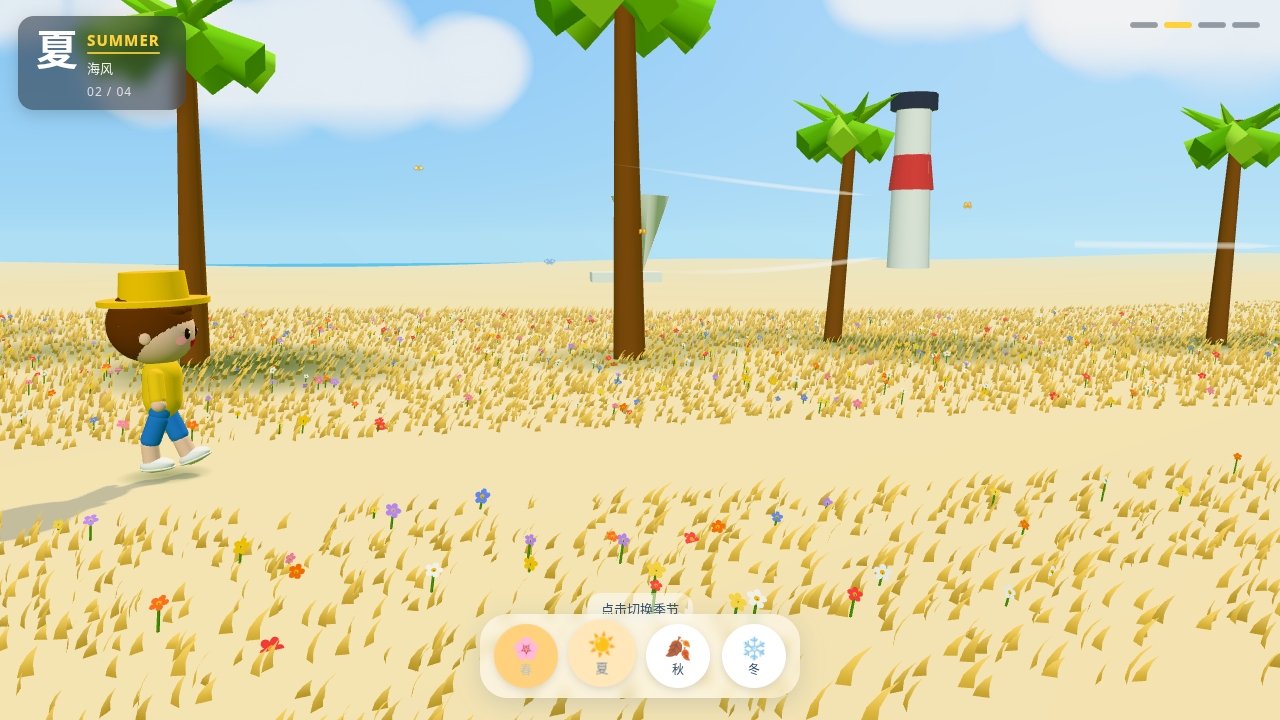
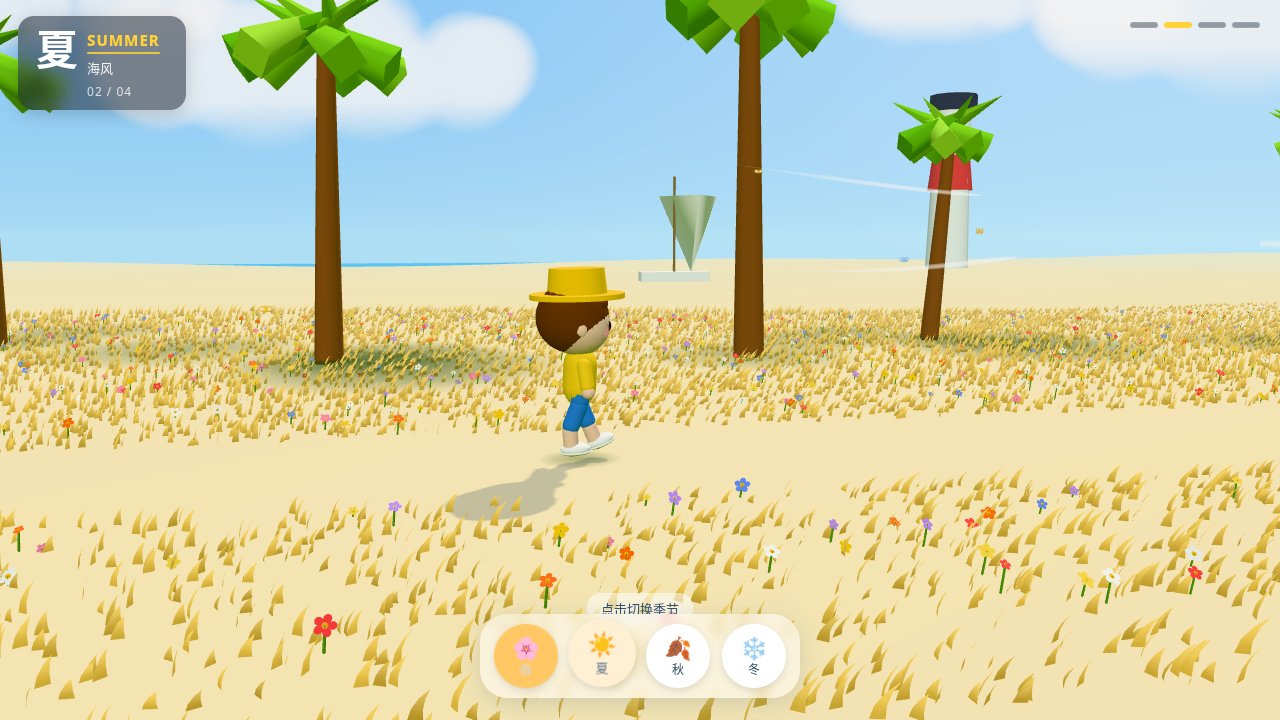
人物比镜头快，走到画面中间
相机跟随变慢并对准人物中心；切换季节时人物从画面左侧走进来。

diff --git a/main.js b/main.js
@@ -561,7 +561,7 @@ const kids = [];
   scene.add(k);
   Object.assign(k.userData, {
     season: name, blob: blob(1, pathCZ(1), 0.38, 1.1), heading: Math.PI / 2,
-    walkPh: 0, w: { walk: 1, sit: 0, look: 0 }, act: 'walk', speed: 0.62,
+    walkPh: 0, w: { walk: 1, sit: 0, look: 0 }, act: 'walk', speed: 0.95,
   });
   if (d.umbrella) {
     const g = new THREE.Group();
@@ -778,8 +778,15 @@ function setWeather(name, instant = false) {
     k.userData.blob.visible = on;
     if (on) {
       hero = k;
-      if (instant || hero.position.x > WALK_X1 - 5 || hero.position.x < WALK_X0) {
-        hero.position.x = WALK_X0 + 2; hero.position.z = pathCZ(hero.position.x);
+      // Start on the left of frame; walk into center while camera lags
+      const startX = (instant ? WALK_X0 + 2 : camera.position.x - 4.2);
+      hero.position.x = Math.max(WALK_X0, Math.min(WALK_X1 - 10, startX));
+      hero.position.z = pathCZ(hero.position.x);
+      if (!instant) {
+        // Keep camera where it is so hero appears left and walks to center
+      } else {
+        camera.position.x = hero.position.x - 4.5;
+        controls.target.x = hero.position.x - 3.8;
       }
     }
   }
@@ -894,14 +901,14 @@ function update(dt) {
     const flap = Math.sin(simTime * 9 + uu.ph * 3) * 0.9; uu.L.rotation.z = flap; uu.R.rotation.z = -flap;
   }
 
-  // camera side-scroll follow — hero lower-left/center
-  const desiredCamX = hero.position.x + 3.2;
+  // camera side-scroll follow — lag behind so hero walks into center
+  const desiredCamX = hero.position.x;
   const desiredCamY = 2.35;
   const desiredCamZ = 9.2;
-  const desiredTgtX = hero.position.x + 3.8;
+  const desiredTgtX = hero.position.x;
   const desiredTgtY = 1.05;
   const desiredTgtZ = 0.0;
-  const ck = 1 - Math.exp(-dt * 3.2);
+  const ck = 1 - Math.exp(-dt * 1.15); // slower than hero
   camera.position.x += (desiredCamX - camera.position.x) * ck;
   camera.position.y += (desiredCamY - camera.position.y) * ck;
   camera.position.z += (desiredCamZ - camera.position.z) * ck;

diff --git a/index.html b/index.html
@@ -56,6 +56,6 @@ document.querySelectorAll('#ui button').forEach(function(b){ b.addEventListener(
   if (window.setWeather) window.setWeather(b.dataset.w); else window.__pendingWeather = b.dataset.w; }); });
 window.addEventListener('error', function(e){ var d=document.getElementById('err'); d.style.display='block'; d.textContent='3D 场景加载出错：' + (e.message||e); });
 </script>
-<script type="module" src="./main.js?v=1792755000"></script>
+<script type="module" src="./main.js?v=1792756200"></script>
 </body>
 </html>
